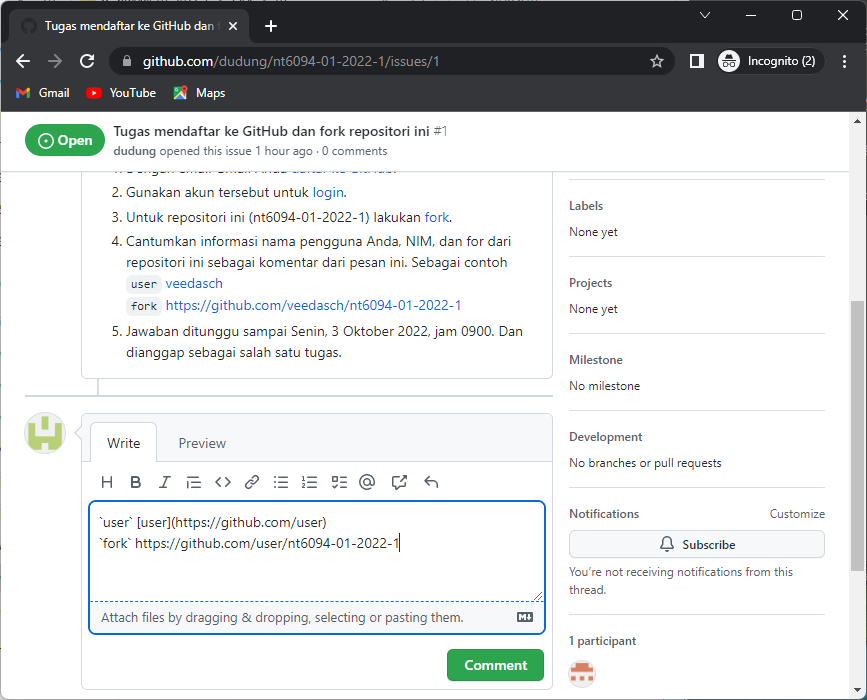
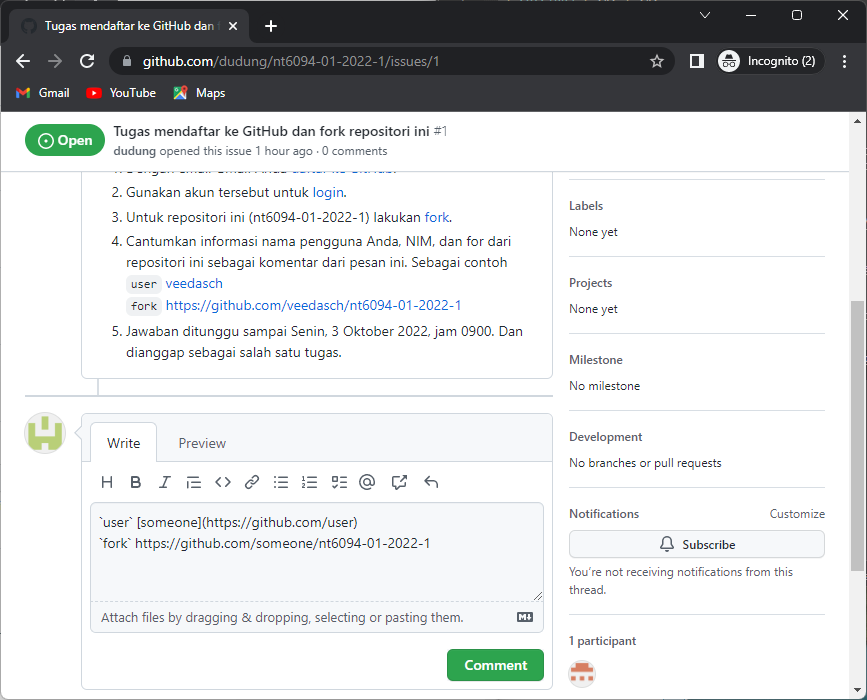
update task 01

diff --git a/task/01/README.md b/task/01/README.md
@@ -29,3 +29,5 @@ Register to GitHub, fork this repo, and comment on [#1](https://github.com/dudun
 
 3. [Report](https://github.com/dudung/nt6094-01-2022-1/issues/1) it.<br>
   ![](fork-20221004-1110.png)
+
+Above steps are illustratd for user [`veedasch`](https://github.com/veedashc). If your username is `someone` then all `veedasch` will be replaced with `someone`.
